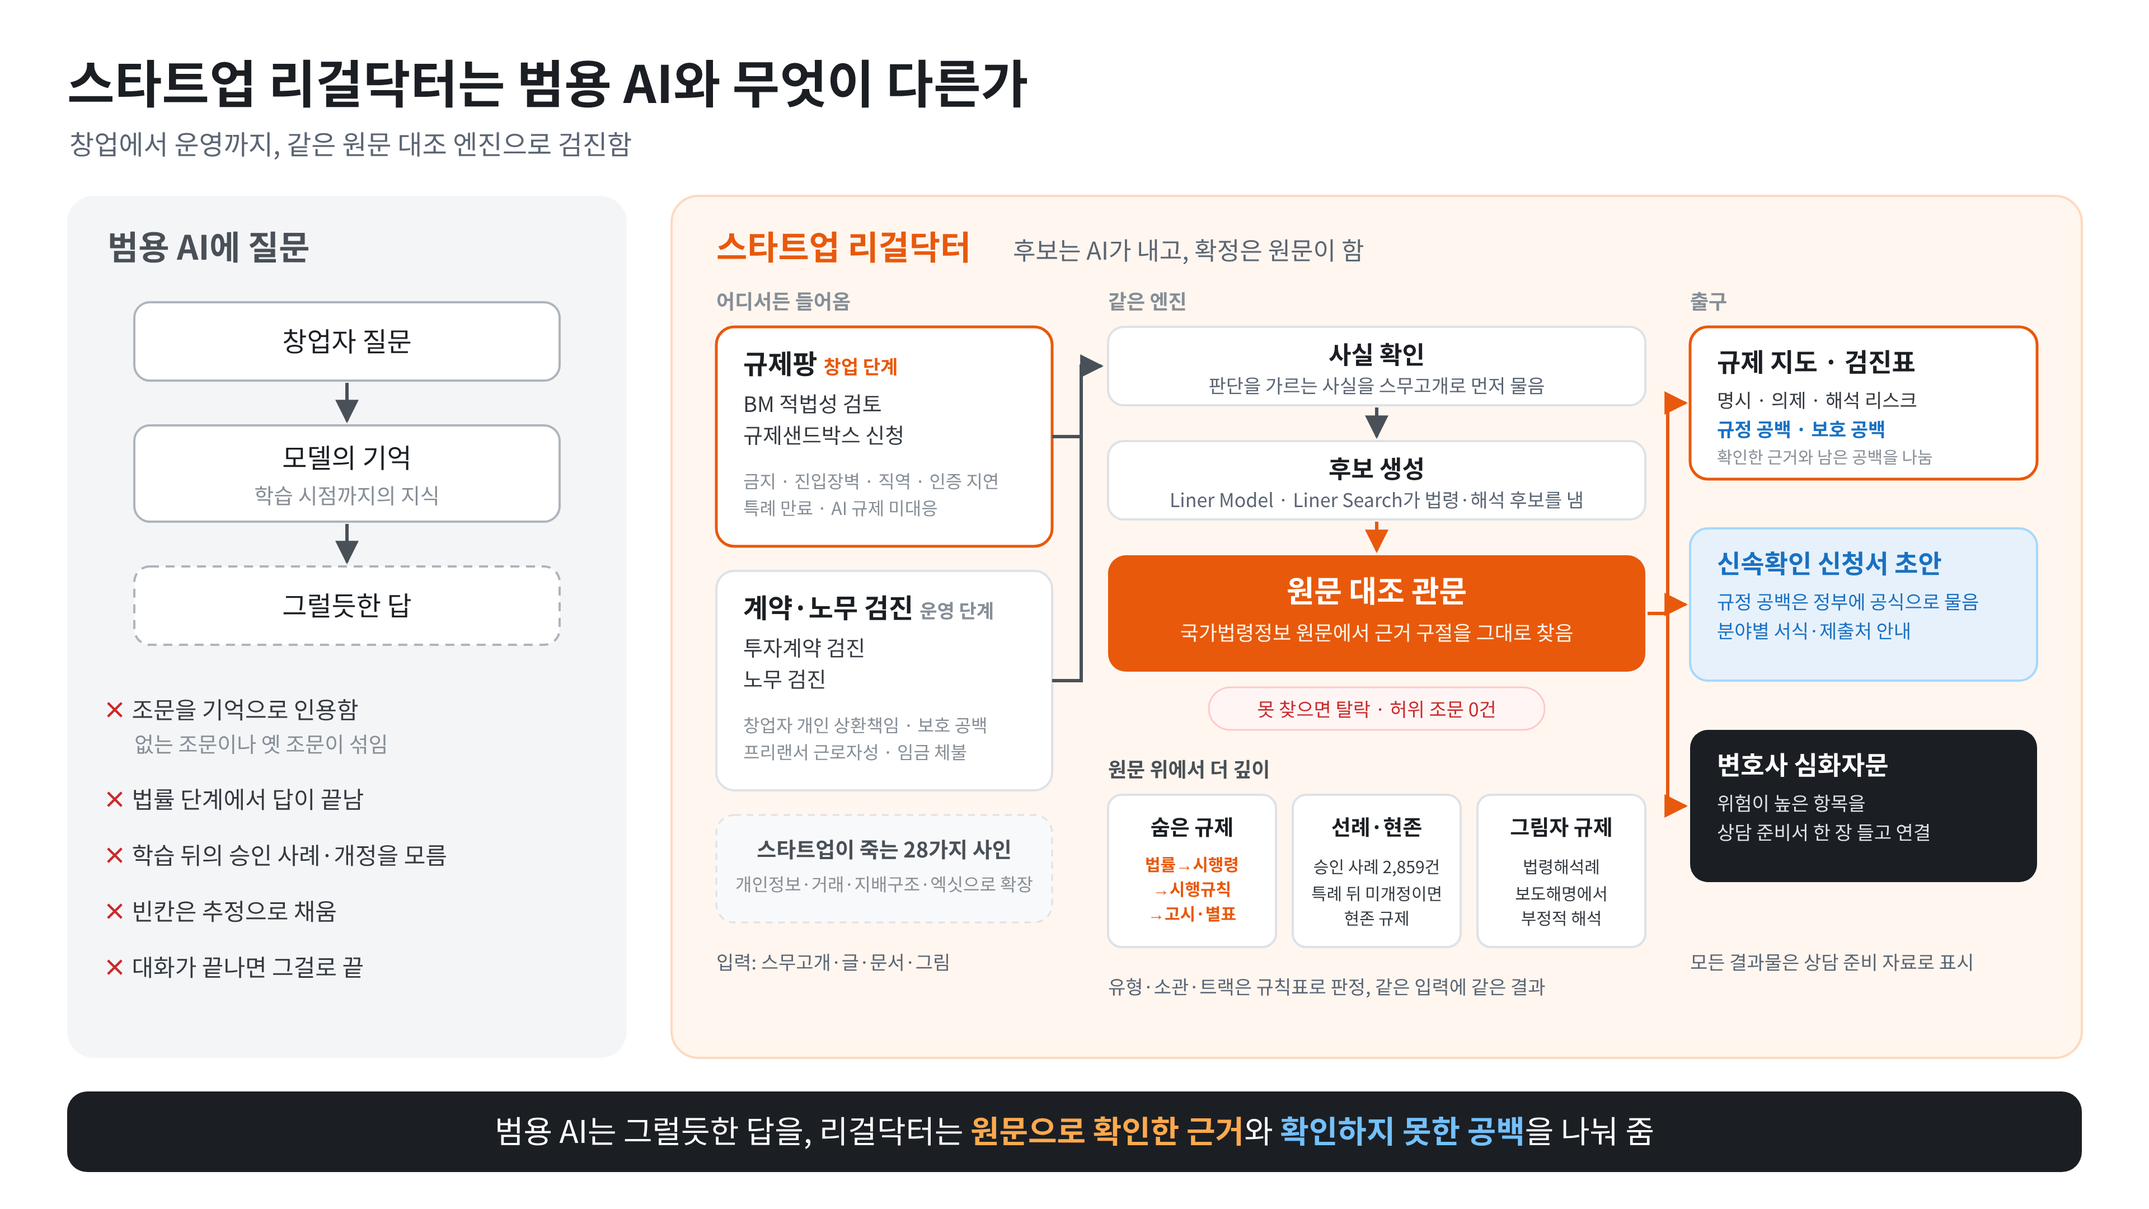
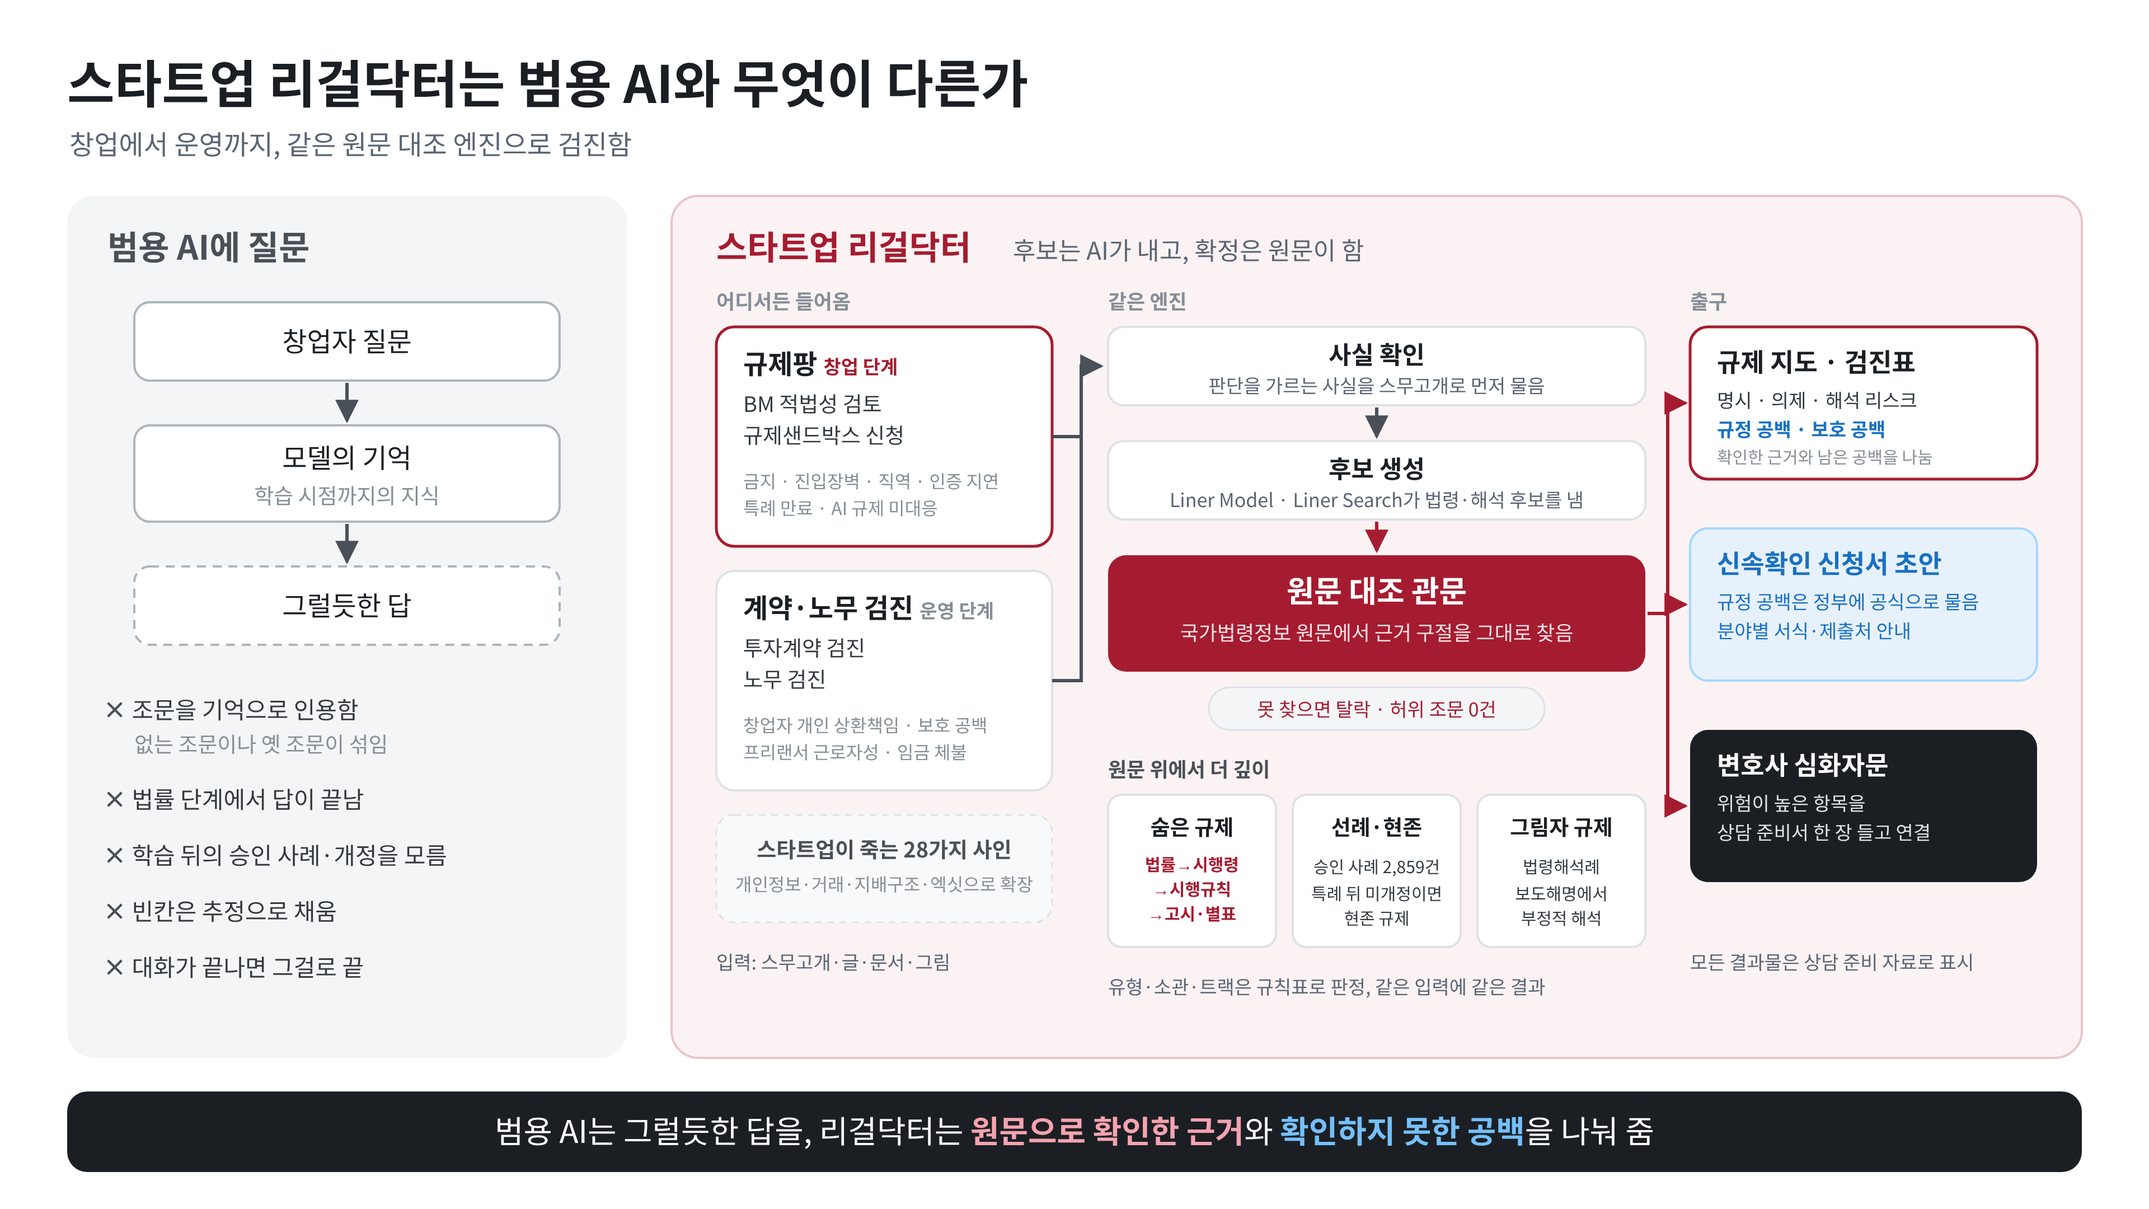
브랜드 색을 하버드 크림슨(#A51C30)으로 통일: 1장 그림, 웹 화면, 규제 지도·검진표. 토큰 사용량 집계 추가
Claude-Session: https://claude.ai/code/session_01Dhc9GeBToC716B2CL1zMFg

diff --git a/docs/figures/difference.png.html b/docs/figures/difference.png.html
@@ -1,0 +1,134 @@
+<html><head><style>@font-face{font-family:'Noto Sans KR';font-weight:400;src:url('file:///tmp/claude-0/-home-user-regpang/6998dffd-3559-50e7-86f5-4fd799a01021/scratchpad/fonts/NotoSansKR-400.woff2') format('woff2');}@font-face{font-family:'Noto Sans KR';font-weight:600;src:url('file:///tmp/claude-0/-home-user-regpang/6998dffd-3559-50e7-86f5-4fd799a01021/scratchpad/fonts/NotoSansKR-600.woff2') format('woff2');}@font-face{font-family:'Noto Sans KR';font-weight:700;src:url('file:///tmp/claude-0/-home-user-regpang/6998dffd-3559-50e7-86f5-4fd799a01021/scratchpad/fonts/NotoSansKR-700.woff2') format('woff2');}@font-face{font-family:'Noto Sans KR';font-weight:400;src:url('file:///tmp/claude-0/-home-user-regpang/6998dffd-3559-50e7-86f5-4fd799a01021/scratchpad/fonts/NotoSansKR-latin-400.woff2');unicode-range:U+0000-00FF}@font-face{font-family:'Noto Sans KR';font-weight:700;src:url('file:///tmp/claude-0/-home-user-regpang/6998dffd-3559-50e7-86f5-4fd799a01021/scratchpad/fonts/NotoSansKR-latin-700.woff2');unicode-range:U+0000-00FF}body{margin:0}</style></head><body><svg xmlns="http://www.w3.org/2000/svg" viewBox="0 0 1920 1080" width="1920" height="1080" font-family="'Noto Sans KR','Pretendard','Apple SD Gothic Neo','Malgun Gothic',sans-serif">
+  <defs>
+    <marker id="ar" viewBox="0 0 10 10" refX="9" refY="5" markerWidth="7" markerHeight="7" orient="auto-start-reverse"><path d="M0,0 L10,5 L0,10 z" fill="#495057"/></marker>
+    <marker id="aro" viewBox="0 0 10 10" refX="9" refY="5" markerWidth="7" markerHeight="7" orient="auto-start-reverse"><path d="M0,0 L10,5 L0,10 z" fill="#A51C30"/></marker>
+  </defs>
+  <rect width="1920" height="1080" fill="#ffffff"/>
+
+  <text x="60" y="92" font-size="46" font-weight="700" fill="#1b1f24">스타트업 리걸닥터는 범용 AI와 무엇이 다른가</text>
+  <text x="62" y="138" font-size="24" fill="#5b6573">창업에서 운영까지, 같은 원문 대조 엔진으로 검진함</text>
+
+  <!-- 왼쪽: 범용 AI -->
+  <rect x="60" y="175" width="500" height="770" rx="24" fill="#f4f5f7"/>
+  <text x="96" y="232" font-size="30" font-weight="700" fill="#495057">범용 AI에 질문</text>
+  <rect x="120" y="270" width="380" height="70" rx="14" fill="#fff" stroke="#adb5bd" stroke-width="2"/>
+  <text x="310" y="314" font-size="24" text-anchor="middle" fill="#1b1f24">창업자 질문</text>
+  <line x1="310" y1="342" x2="310" y2="376" stroke="#495057" stroke-width="3" marker-end="url(#ar)"/>
+  <rect x="120" y="380" width="380" height="86" rx="14" fill="#fff" stroke="#adb5bd" stroke-width="2"/>
+  <text x="310" y="418" font-size="24" text-anchor="middle" fill="#1b1f24">모델의 기억</text>
+  <text x="310" y="450" font-size="19" text-anchor="middle" fill="#868e96">학습 시점까지의 지식</text>
+  <line x1="310" y1="468" x2="310" y2="502" stroke="#495057" stroke-width="3" marker-end="url(#ar)"/>
+  <rect x="120" y="506" width="380" height="70" rx="14" fill="#fff" stroke="#adb5bd" stroke-width="2" stroke-dasharray="8 6"/>
+  <text x="310" y="550" font-size="24" text-anchor="middle" fill="#1b1f24">그럴듯한 답</text>
+  <g font-size="21" fill="#343a40">
+    <text x="92" y="642"><tspan fill="#495057" font-weight="700">×</tspan>  조문을 기억으로 인용함</text>
+    <text x="120" y="672" fill="#868e96" font-size="19">없는 조문이나 옛 조문이 섞임</text>
+    <text x="92" y="722"><tspan fill="#495057" font-weight="700">×</tspan>  법률 단계에서 답이 끝남</text>
+    <text x="92" y="772"><tspan fill="#495057" font-weight="700">×</tspan>  학습 뒤의 승인 사례·개정을 모름</text>
+    <text x="92" y="822"><tspan fill="#495057" font-weight="700">×</tspan>  빈칸은 추정으로 채움</text>
+    <text x="92" y="872"><tspan fill="#495057" font-weight="700">×</tspan>  대화가 끝나면 그걸로 끝</text>
+  </g>
+
+  <!-- 오른쪽: 규제팡 -->
+  <rect x="600" y="175" width="1260" height="770" rx="24" fill="#FBF2F3" stroke="#E9C4CA" stroke-width="2"/>
+  <text x="640" y="232" font-size="30" font-weight="700" fill="#A51C30">스타트업 리걸닥터</text>
+  <text x="905" y="232" font-size="22" fill="#5b6573">후보는 AI가 내고, 확정은 원문이 함</text>
+
+  <!-- 열 머리 -->
+  <g font-size="18" font-weight="700" fill="#868e96">
+    <text x="640" y="276">어디서든 들어옴</text>
+    <text x="990" y="276">같은 엔진</text>
+    <text x="1510" y="276">출구</text>
+  </g>
+
+  <!-- A: 입구 -->
+  <rect x="640" y="292" width="300" height="196" rx="16" fill="#ffffff" stroke="#A51C30" stroke-width="2.5"/>
+  <text x="664" y="334" font-size="24" font-weight="700" fill="#1b1f24">규제팡 <tspan font-size="17" fill="#A51C30">창업 단계</tspan></text>
+  <text x="664" y="368" font-size="19" fill="#343a40">BM 적법성 검토</text>
+  <text x="664" y="396" font-size="19" fill="#343a40">규제샌드박스 신청</text>
+  <text x="664" y="436" font-size="16" fill="#868e96">금지 · 진입장벽 · 직역 · 인증 지연</text>
+  <text x="664" y="460" font-size="16" fill="#868e96">특례 만료 · AI 규제 미대응</text>
+
+  <rect x="640" y="510" width="300" height="196" rx="16" fill="#ffffff" stroke="#dee2e6" stroke-width="2"/>
+  <text x="664" y="552" font-size="24" font-weight="700" fill="#1b1f24">계약·노무 검진 <tspan font-size="17" fill="#868e96">운영 단계</tspan></text>
+  <text x="664" y="586" font-size="19" fill="#343a40">투자계약 검진</text>
+  <text x="664" y="614" font-size="19" fill="#343a40">노무 검진</text>
+  <text x="664" y="654" font-size="16" fill="#868e96">창업자 개인 상환책임 · 보호 공백</text>
+  <text x="664" y="678" font-size="16" fill="#868e96">프리랜서 근로자성 · 임금 체불</text>
+
+  <rect x="640" y="728" width="300" height="96" rx="16" fill="#f8f9fa" stroke="#dee2e6" stroke-width="1.5" stroke-dasharray="6 5"/>
+  <text x="790" y="766" font-size="19" text-anchor="middle" fill="#495057" font-weight="700">스타트업이 죽는 28가지 사인</text>
+  <text x="790" y="796" font-size="16" text-anchor="middle" fill="#868e96">개인정보·거래·지배구조·엑싯으로 확장</text>
+
+  <text x="640" y="866" font-size="17" fill="#5b6573">입력: 스무고개·글·문서·그림</text>
+
+  <!-- A → B -->
+  <path d="M940,390 H966 V327 H984" fill="none" stroke="#495057" stroke-width="3" marker-end="url(#ar)"/>
+  <path d="M940,608 H966 V390" fill="none" stroke="#495057" stroke-width="3"/>
+
+  <!-- B: 엔진 -->
+  <rect x="990" y="292" width="480" height="70" rx="14" fill="#ffffff" stroke="#dee2e6" stroke-width="2"/>
+  <text x="1230" y="325" font-size="22" font-weight="700" text-anchor="middle" fill="#1b1f24">사실 확인</text>
+  <text x="1230" y="351" font-size="17" text-anchor="middle" fill="#5b6573">판단을 가르는 사실을 스무고개로 먼저 물음</text>
+  <line x1="1230" y1="364" x2="1230" y2="390" stroke="#495057" stroke-width="3" marker-end="url(#ar)"/>
+  <rect x="990" y="394" width="480" height="70" rx="14" fill="#ffffff" stroke="#dee2e6" stroke-width="2"/>
+  <text x="1230" y="427" font-size="22" font-weight="700" text-anchor="middle" fill="#1b1f24">후보 생성</text>
+  <text x="1230" y="453" font-size="17" text-anchor="middle" fill="#5b6573">Liner Model · Liner Search가 법령·해석 후보를 냄</text>
+  <line x1="1230" y1="466" x2="1230" y2="492" stroke="#A51C30" stroke-width="3" marker-end="url(#aro)"/>
+  <rect x="990" y="496" width="480" height="104" rx="16" fill="#A51C30"/>
+  <text x="1230" y="538" font-size="27" font-weight="700" text-anchor="middle" fill="#ffffff">원문 대조 관문</text>
+  <text x="1230" y="572" font-size="18" text-anchor="middle" fill="#F6E1E5">국가법령정보 원문에서 근거 구절을 그대로 찾음</text>
+  <rect x="1080" y="614" width="300" height="38" rx="19" fill="#F4F5F7" stroke="#DEE2E6" stroke-width="1.5"/>
+  <text x="1230" y="640" font-size="17" text-anchor="middle" fill="#A51C30">못 찾으면 탈락 · 허위 조문 0건</text>
+
+  <text x="990" y="694" font-size="18" font-weight="700" fill="#495057">원문 위에서 더 깊이</text>
+  <g>
+    <rect x="990" y="710" width="150" height="136" rx="12" fill="#ffffff" stroke="#dee2e6" stroke-width="2"/>
+    <text x="1065" y="746" font-size="19" font-weight="700" text-anchor="middle" fill="#1b1f24">숨은 규제</text>
+    <text x="1065" y="778" font-size="15" text-anchor="middle" fill="#A51C30" font-weight="700">법률→시행령</text>
+    <text x="1065" y="800" font-size="15" text-anchor="middle" fill="#A51C30" font-weight="700">→시행규칙</text>
+    <text x="1065" y="822" font-size="15" text-anchor="middle" fill="#A51C30" font-weight="700">→고시·별표</text>
+    <rect x="1155" y="710" width="150" height="136" rx="12" fill="#ffffff" stroke="#dee2e6" stroke-width="2"/>
+    <text x="1230" y="746" font-size="19" font-weight="700" text-anchor="middle" fill="#1b1f24">선례·현존</text>
+    <text x="1230" y="780" font-size="15" text-anchor="middle" fill="#343a40">승인 사례 2,859건</text>
+    <text x="1230" y="804" font-size="15" text-anchor="middle" fill="#343a40">특례 뒤 미개정이면</text>
+    <text x="1230" y="826" font-size="15" text-anchor="middle" fill="#343a40">현존 규제</text>
+    <rect x="1320" y="710" width="150" height="136" rx="12" fill="#ffffff" stroke="#dee2e6" stroke-width="2"/>
+    <text x="1395" y="746" font-size="19" font-weight="700" text-anchor="middle" fill="#1b1f24">그림자 규제</text>
+    <text x="1395" y="780" font-size="15" text-anchor="middle" fill="#343a40">법령해석례</text>
+    <text x="1395" y="804" font-size="15" text-anchor="middle" fill="#343a40">보도해명에서</text>
+    <text x="1395" y="826" font-size="15" text-anchor="middle" fill="#343a40">부정적 해석</text>
+  </g>
+  <text x="990" y="888" font-size="17" fill="#5b6573">유형·소관·트랙은 규칙표로 판정, 같은 입력에 같은 결과</text>
+
+  <!-- B → C -->
+  <path d="M1472,548 H1490" fill="none" stroke="#A51C30" stroke-width="3"/>
+  <path d="M1490,360 V720" fill="none" stroke="#A51C30" stroke-width="3"/>
+  <path d="M1490,360 H1506" fill="none" stroke="#A51C30" stroke-width="3" marker-end="url(#aro)"/>
+  <path d="M1490,540 H1506" fill="none" stroke="#A51C30" stroke-width="3" marker-end="url(#aro)"/>
+  <path d="M1490,720 H1506" fill="none" stroke="#A51C30" stroke-width="3" marker-end="url(#aro)"/>
+
+  <!-- C: 출구 -->
+  <rect x="1510" y="292" width="310" height="136" rx="16" fill="#ffffff" stroke="#A51C30" stroke-width="2.5"/>
+  <text x="1534" y="332" font-size="23" font-weight="700" fill="#1b1f24">규제 지도 · 검진표</text>
+  <text x="1534" y="364" font-size="17" fill="#343a40">명시 · 의제 · 해석 리스크</text>
+  <text x="1534" y="390" font-size="17" fill="#1971c2" font-weight="700">규정 공백 · 보호 공백</text>
+  <text x="1534" y="414" font-size="15" fill="#868e96">확인한 근거와 남은 공백을 나눔</text>
+
+  <rect x="1510" y="472" width="310" height="136" rx="16" fill="#e7f1fb" stroke="#a5d8ff" stroke-width="2"/>
+  <text x="1534" y="512" font-size="23" font-weight="700" fill="#1971c2">신속확인 신청서 초안</text>
+  <text x="1534" y="544" font-size="17" fill="#1971c2">규정 공백은 정부에 공식으로 물음</text>
+  <text x="1534" y="570" font-size="17" fill="#1971c2">분야별 서식·제출처 안내</text>
+
+  <rect x="1510" y="652" width="310" height="136" rx="16" fill="#1b1f24"/>
+  <text x="1534" y="692" font-size="23" font-weight="700" fill="#ffffff">변호사 심화자문</text>
+  <text x="1534" y="724" font-size="17" fill="#dee2e6">위험이 높은 항목을</text>
+  <text x="1534" y="750" font-size="17" fill="#dee2e6">상담 준비서 한 장 들고 연결</text>
+
+  <text x="1510" y="866" font-size="17" fill="#5b6573">모든 결과물은 상담 준비 자료로 표시</text>
+
+  <!-- 하단 한 줄 -->
+  <rect x="60" y="975" width="1800" height="72" rx="18" fill="#1b1f24"/>
+  <text x="960" y="1021" font-size="28" text-anchor="middle" fill="#ffffff">범용 AI는 그럴듯한 답을, 리걸닥터는 <tspan fill="#F4A3AF" font-weight="700">원문으로 확인한 근거</tspan>와 <tspan fill="#74c0fc" font-weight="700">확인하지 못한 공백</tspan>을 나눠 줌</text>
+</svg>
+</body></html>

diff --git a/legaldoctor/web/static/index.html b/legaldoctor/web/static/index.html
@@ -5,8 +5,8 @@
 <meta name="viewport" content="width=device-width, initial-scale=1">
 <title>스타트업 리걸닥터</title>
 <style>
-:root{--bg:#f6f7f9;--card:#fff;--ink:#1b1f24;--sub:#5b6573;--line:#e3e6ea;--accent:#e8590c;--accent-soft:#fff1e8;--ok:#2b8a3e;--chip:#eef1f4}
-@media (prefers-color-scheme:dark){:root{--bg:#121417;--card:#1b1f24;--ink:#e9ecef;--sub:#9aa4b1;--line:#2c323a;--accent:#ff8a3d;--accent-soft:#2a1d14;--ok:#51cf66;--chip:#262b33}}
+:root{--bg:#f6f7f9;--card:#fff;--ink:#1b1f24;--sub:#5b6573;--line:#e3e6ea;--accent:#A51C30;--accent-soft:#FBEFF1;--ok:#2b8a3e;--chip:#eef1f4}
+@media (prefers-color-scheme:dark){:root{--bg:#121417;--card:#1b1f24;--ink:#e9ecef;--sub:#9aa4b1;--line:#2c323a;--accent:#E0566B;--accent-soft:#2A1418;--ok:#51cf66;--chip:#262b33}}
 *{box-sizing:border-box}
 body{margin:0;background:var(--bg);color:var(--ink);font:15px/1.6 "Pretendard","Apple SD Gothic Neo","Malgun Gothic",system-ui,sans-serif}
 header{padding:20px 16px 8px;max-width:1120px;margin:0 auto}
@@ -62,7 +62,7 @@ footer{max-width:1120px;margin:0 auto;padding:0 16px 30px;color:var(--sub);font-
 </head>
 <body>
 <header>
-  <h1>스타트업 리걸<span>닥터</span> <small class="en">Startup Legal Doctor</small></h1>
+  <h1><span>스타트업 리걸닥터</span> <small class="en">Startup Legal Doctor</small></h1>
   <p>스타트업이 죽는 28가지 사인을 죽기 전에 검진합니다.</p>
   <nav class="menu" id="menu">
     <button data-m="reg" class="on"><b>규제팡</b> · 막힌 규제, 팡! 뚫어 드려요<span>BM 적법성 · 규제샌드박스</span></button>

diff --git a/legaldoctor/outputs/render.py b/legaldoctor/outputs/render.py
@@ -32,10 +32,10 @@ BASE_CSS = """
 *{box-sizing:border-box}
 body{margin:0;font:13px/1.55 "Pretendard","Apple SD Gothic Neo","Malgun Gothic","Noto Sans KR",sans-serif;color:#1b1f24;background:#fff}
 .page{max-width:900px;margin:0 auto;padding:28px 20px}
-h1{font-size:22px;margin:0 0 2px}h1 span{color:#e8590c}
+h1{font-size:22px;margin:0 0 2px}h1 span{color:#A51C30}
 h2{font-size:15px;margin:18px 0 6px;padding-bottom:3px;border-bottom:2px solid #1b1f24}
 .meta{color:#5b6573;font-size:12px}
-.disc{margin-top:8px;padding:6px 10px;border-left:3px solid #e8590c;background:#fff4ec;font-size:12px}
+.disc{margin-top:8px;padding:6px 10px;border-left:3px solid #A51C30;background:#FBEFF1;font-size:12px}
 table{width:100%;border-collapse:collapse;margin:4px 0}
 th,td{border:1px solid #dee2e6;padding:5px 7px;text-align:left;vertical-align:top}
 th{background:#f1f3f5;font-weight:600;white-space:nowrap}
@@ -57,7 +57,7 @@ def _doc(title: str, body: str, extra_css: str = "") -> str:
 
 
 def _header(title: str, r: Report, menu: str = "규제팡 · 규제 검진") -> str:
-    return f"""<h1>스타트업 리걸<span>닥터</span> · {e(title)}</h1><div class="meta">{e(menu)} · 작성일 {e(r.made_on)} · {e(DISCLAIMER_SHORT)}</div>"""
+    return f"""<h1><span>스타트업 리걸닥터</span> · {e(title)}</h1><div class="meta">{e(menu)} · 작성일 {e(r.made_on)} · {e(DISCLAIMER_SHORT)}</div>"""
 
 
 def _law_cell(row) -> str:

diff --git a/legaldoctor/liner/model.py b/legaldoctor/liner/model.py
@@ -64,6 +64,7 @@ class LinerModel:
         if resp.status_code != 200:
             raise LinerModelError(f"HTTP {resp.status_code}: {resp.text[:500]}")
         data = resp.json()
+        _record_usage(data.get("usage") or {})
         try:
             choice = data["choices"][0]
         except (KeyError, IndexError) as e:
@@ -85,6 +86,17 @@ class LinerModel:
 
     def close(self) -> None:
         self._client.close()
+
+
+# 실행 한 번에 쓴 토큰을 모은다(진단 1건당 비용 측정용). 스레드 여러 개가 더해도 정수 덧셈이라 근사로 충분함.
+USAGE = {"calls": 0, "prompt_tokens": 0, "completion_tokens": 0, "cached_tokens": 0}
+
+
+def _record_usage(u: dict[str, Any]) -> None:
+    USAGE["calls"] += 1
+    USAGE["prompt_tokens"] += int(u.get("prompt_tokens") or 0)
+    USAGE["completion_tokens"] += int(u.get("completion_tokens") or 0)
+    USAGE["cached_tokens"] += int((u.get("prompt_tokens_details") or {}).get("cached_tokens") or 0)
 
 
 _FENCE = re.compile(r"```(?:json)?\s*(.*?)```", re.S)

diff --git a/legaldoctor/checkup/render.py b/legaldoctor/checkup/render.py
@@ -32,7 +32,7 @@ def checkup_html(res: CheckupResult) -> str:
     m = res.module
     hi = sum(1 for i in res.items if i.risk == "높음")
     parts = [
-        f"<h1>스타트업 리걸<span>닥터</span> · {e(m.title)}</h1>",
+        f"<h1><span>스타트업 리걸닥터</span> · {e(m.title)}</h1>",
         f"<div class='meta'>대비하는 사인: {e(', '.join(f'{c['no']}. {c['name']}' for c in res.causes))} · 사인 분류는 스타트업 부검보고서 체계</div>",
         f"<div class='disc'>{e(DISCLAIMER)}</div>",
         f"<div class='sum'><div>검진 항목 <b>{len(res.items)}</b></div><div>위험 높음 <b style='color:#c92a2a'>{hi}</b></div><div>변호사 심화자문 권함 <b style='color:#1971c2'>{len(res.lawyer_items)}</b></div></div>",

diff --git a/legaldoctor/liner/search.py b/legaldoctor/liner/search.py
@@ -19,6 +19,9 @@ import httpx
 from legaldoctor.config import BROWSER_USER_AGENT, Settings
 
 
+SEARCH_CALLS = [0]  # 진단 1건당 비용 측정용 호출 수
+
+
 class LinerSearchError(RuntimeError):
     pass
 
@@ -96,6 +99,7 @@ class LinerSearch:
         self._timeout = timeout
 
     def search(self, query: str, *, mode: str = "general") -> SearchResult:
+        SEARCH_CALLS[0] += 1
         body = {"messages": [{"role": "user", "content": query}], "mode": mode}
         headers = {
             "x-api-key": self._settings.liner_api_key,
